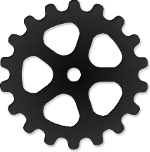
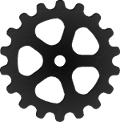
* Finished the first redesign of the escape menu

diff --git a/GREATClient/Display/ESCMenu.cs b/GREATClient/Display/ESCMenu.cs
@@ -26,6 +26,7 @@ using GREATClient.BaseClass.Menu;
 using Microsoft.Xna.Framework;
 using GREATClient.BaseClass.Input;
 using System.Diagnostics;
+using GREATClient.BaseClass.BaseAction;
 
 namespace GREATClient.Display
 {
@@ -41,23 +42,50 @@ namespace GREATClient.Display
 		public Vector2 MenuSize { get; set; }
 
 		MenuState State { get; set; }
+		// Menus
 		Menu MainMenu { get; set; }
 		Menu VideoMenu { get; set; }
 		Menu AudioMenu { get; set; }
 		Menu ExitMenu { get; set; }
+
+		//Main
 		DrawableImage MainBackground { get; set; }
 		Container MainBackgroundLayer { get; set; }
-		DrawableRectangle AudioRectangle { get; set; }
-		DrawableRectangle VideoRectangle { get; set; }
-		Container ExitLayer { get; set; }
-		Container PlacementLayer { get; set; }
-
 		// Gear
-		DrawableImage Gear { get; set; }
+		DrawableImage GearMain { get; set; }
+		DrawableImage GearMiniMain { get; set; }
+
+		//Audio
+		DrawableImage AudioBackground { get; set; }
+		Container AudioBackgroundLayer { get; set; }
+		// Gear
+		DrawableImage GearAudio { get; set; }
+
+		// Video
+		DrawableImage VideoBackground { get; set; }
+		Container VideoBackgroundLayer { get; set; }
+		// Gear
+		DrawableImage GearVideo { get; set; }
+		DrawableImage GearVideo2 { get; set; }
+
+		// Exit
+		DrawableImage ExitBackground { get; set; }
+		Container ExitLayer { get; set; }
+		// Gear 
+		DrawableImage GearExit { get; set; }
+		DrawableImage GearExit2 { get; set; }
+		DrawableImage GearExitMini { get; set; }
+
+		Container PlacementLayer { get; set; }
 
         public ESCMenu()
         {
 			State = MenuState.AllClosed;
+			PlacementLayer = new Container();			
+			MainBackgroundLayer = new Container();
+			VideoBackgroundLayer = new Container();
+			AudioBackgroundLayer = new Container();
+
 			// Main
 			MenuItem main1 = new MenuItem(new DrawableLabel() {Text = "Video settings" }, 
 							 			  new DrawableLabel() {Text = "Video settings", Tint = Color.Chocolate},
@@ -145,34 +173,74 @@ namespace GREATClient.Display
 				}
 			};
 
-			MainBackgroundLayer = new Container();
 
+			//Exit
 			ExitMenu = new Menu(exit1, exit2);
 			ExitMenu.AlignItemsHorizontally(80);
 			ExitMenu.AllowKeyboard = true;
-			ExitMenu.Position = new Vector2(130,50);
-
-			MainBackground = new DrawableImage("UIObjects/menu");
-			MenuSize = new Vector2(200,170);
-			AudioRectangle = new DrawableRectangle(new Vector2(200, 85), new Vector2(0, 0), Color.DarkGray);
-			VideoRectangle = new DrawableRectangle(new Vector2(200, 120), new Vector2(0, 0), Color.DarkGray);
-			MainBackgroundLayer.Visible = false;
-			AudioRectangle.Visible = false;
-			VideoRectangle.Visible = false;
-
+			ExitMenu.Position = new Vector2(160,95);
 			ExitLayer = new Container();
-			ExitLayer.AddChild(new DrawableRectangle(new Vector2(250, 80), new Vector2(0, 0), Color.DarkGray));
-			ExitLayer.AddChild(new DrawableLabel(){Text = "Do you really want to quit?"});
-			ExitLayer.AddChild(ExitMenu);
+			ExitBackground = new DrawableImage("UIObjects/menuExit");
 			ExitLayer.Visible = false;
+			// Exit gear
+			GearExit = new DrawableImage("UIObjects/menuGear");
+			GearExit.Scale = new Vector2(0.9f, 0.9f);
+			GearExit.RelativeOrigin = new Vector2(0.5f,0.5f);
+			GearExit.Position = new Vector2(25,130);
+			GearExit.PerformAction(new ActionSequence(-1,new ActionRotateBy(new TimeSpan(0,0,0,0,350),2,false), new ActionRotateBy(new TimeSpan(0,0,0,0,200),18,false), new ActionDelay(new TimeSpan(0,0,0,0,450))));
+			GearExit2 = new DrawableImage("UIObjects/menuGear");
+			GearExit2.Scale = new Vector2(0.8f, 0.8f);
+			GearExit2.RelativeOrigin = new Vector2(0.5f,0.5f);
+			GearExit2.Position = new Vector2(200,130);
+			GearExit2.PerformAction(new ActionSequence(-1,new ActionRotateBy(new TimeSpan(0,0,0,0,350),2,false), new ActionRotateBy(new TimeSpan(0,0,0,0,200),18,false), new ActionDelay(new TimeSpan(0,0,0,0,450))));
+			GearExitMini = new DrawableImage("UIObjects/menuGear");
+			GearExitMini.Scale = new Vector2(0.6f, 0.6f);
+			GearExitMini.RelativeOrigin = new Vector2(0.5f,0.5f);
+			GearExitMini.Position = new Vector2(115,130);
+			GearExitMini.PerformAction(new ActionSequence(-1,new ActionRotateBy(new TimeSpan(0,0,0,0,350),-2,false), new ActionRotateBy(new TimeSpan(0,0,0,0,200),-18,false), new ActionDelay(new TimeSpan(0,0,0,0,450))));
 
+
+			//Main
+			MainBackground = new DrawableImage("UIObjects/menu");
+			MainBackgroundLayer.Visible = false;
 			MainMenu.Position = new Vector2(30,25);
+			// Main gear
+			GearMain = new DrawableImage("UIObjects/menuGear");
+			GearMain.RelativeOrigin = new Vector2(0.5f,0.5f);
+			GearMain.Position = new Vector2(25,35);
+			GearMain.PerformAction(new ActionSequence(-1,new ActionRotateBy(new TimeSpan(0,0,0,0,350),2,false), new ActionRotateBy(new TimeSpan(0,0,0,0,200),18,false), new ActionDelay(new TimeSpan(0,0,0,0,450))));
+			GearMiniMain = new DrawableImage("UIObjects/menuGear");
+			GearMiniMain.Scale = new Vector2(0.5f, 0.5f);
+			GearMiniMain.RelativeOrigin = new Vector2(0.5f,0.5f);
+			GearMiniMain.Position = new Vector2(13,115);
+			GearMiniMain.PerformAction(new ActionSequence(-1,new ActionRotateBy(new TimeSpan(0,0,0,0,350),-2,false), new ActionRotateBy(new TimeSpan(0,0,0,0,200),-18,false), new ActionDelay(new TimeSpan(0,0,0,0,450))));
 
-			Gear = new DrawableImage("UIObjects/menuGear");
-			Gear.Position = new Vector2(-40,-25);
+			//Audio
+			AudioBackground = new DrawableImage("UIObjects/menuAudio");
+			AudioBackgroundLayer.Visible = false;
+			AudioMenu.Position = new Vector2(30,27);
+			// Audio gear
+			GearAudio = new DrawableImage("UIObjects/menuGear");
+			GearAudio.RelativeOrigin = new Vector2(0.5f,0.5f);
+			GearAudio.Position = new Vector2(130,35);
+			GearAudio.PerformAction(new ActionSequence(-1,new ActionRotateBy(new TimeSpan(0,0,0,0,350),2,false), new ActionRotateBy(new TimeSpan(0,0,0,0,200),18,false), new ActionDelay(new TimeSpan(0,0,0,0,450))));
 
-			PlacementLayer = new Container();
-			PlacementLayer.Position = new Vector2(-MenuSize.X / 2, -MenuSize.Y /2);
+			//Video
+			VideoBackground = new DrawableImage("UIObjects/menuVideo");
+			VideoBackgroundLayer.Visible = false;
+			VideoMenu.Position = new Vector2(30,25);
+			//Gear
+			GearVideo = new DrawableImage("UIObjects/menuGear");
+			GearVideo.Scale = new Vector2(0.6f, 0.6f);
+			GearVideo.RelativeOrigin = new Vector2(0.5f,0.5f);
+			GearVideo.Position = new Vector2(290,130);
+			GearVideo.PerformAction(new ActionSequence(-1,new ActionRotateBy(new TimeSpan(0,0,0,0,350),2,false), new ActionRotateBy(new TimeSpan(0,0,0,0,200),18,false), new ActionDelay(new TimeSpan(0,0,0,0,450))));
+			// Gear2
+			GearVideo2 = new DrawableImage("UIObjects/menuGear");
+			GearVideo2.Scale = new Vector2(0.6f, 0.6f);
+			GearVideo2.RelativeOrigin = new Vector2(0.5f,0.5f);
+			GearVideo2.Position = new Vector2(250,170);
+			GearVideo2.PerformAction(new ActionSequence(-1,new ActionRotateBy(new TimeSpan(0,0,0,0,350),-2,false), new ActionRotateBy(new TimeSpan(0,0,0,0,200),-18,false), new ActionDelay(new TimeSpan(0,0,0,0,450))));
 		}
 
 		protected override void OnLoad(ContentManager content, GraphicsDevice gd)
@@ -183,11 +251,31 @@ namespace GREATClient.Display
 			PlacementLayer.AddChild(AudioMenu,2);
 			PlacementLayer.AddChild(VideoMenu,2);
 			PlacementLayer.AddChild(MainBackgroundLayer,1);
-			PlacementLayer.AddChild(AudioRectangle,1);
-			PlacementLayer.AddChild(VideoRectangle,1);
+			PlacementLayer.AddChild(AudioBackgroundLayer,1);
+			PlacementLayer.AddChild(VideoBackgroundLayer,1);
 			PlacementLayer.AddChild(ExitLayer,1);
-			MainBackgroundLayer.AddChild(Gear,0);
+
+			VideoBackgroundLayer.AddChild(VideoBackground,1);
+			VideoBackgroundLayer.AddChild(new DrawableLabel(){Text = "*Changes will take effect after the next restart.", 
+															  Scale = new Vector2(0.6f,0.6f),
+															  Position = new Vector2(20,150)});
+
+			VideoBackgroundLayer.AddChild(GearVideo,0);
+			VideoBackgroundLayer.AddChild(GearVideo2,0);
+
+			AudioBackgroundLayer.AddChild(AudioBackground, 1);
+			AudioBackgroundLayer.AddChild(GearAudio, 0);
+
+			MainBackgroundLayer.AddChild(GearMain,0);
+			MainBackgroundLayer.AddChild(GearMiniMain,0);
 			MainBackgroundLayer.AddChild(MainBackground,1);
+
+			ExitLayer.AddChild(ExitBackground,1);
+			ExitLayer.AddChild(new DrawableLabel(){Text = "Do you really want to quit?", Position = new Vector2(30,25)});
+			ExitLayer.AddChild(ExitMenu,2);
+			ExitLayer.AddChild(GearExit,0);
+			ExitLayer.AddChild(GearExit2,0);
+			ExitLayer.AddChild(GearExitMini,0);
 
 			inputManager.RegisterEvent(InputActions.Escape, new EventHandler(OpenOrCloseMainMenu));
 
@@ -195,6 +283,17 @@ namespace GREATClient.Display
 			AudioMenu.Active(false);
 			VideoMenu.Active(false);
 			ExitMenu.Active(false);
+
+			SetMenuSize(new Vector2(MainBackground.Texture.Width,MainBackground.Texture.Height));
+		}
+
+		/// <summary>
+		/// Replaces the placement layer.
+		/// </summary>
+		void SetMenuSize(Vector2 size)
+		{			
+			MenuSize = size;
+			PlacementLayer.Position = new Vector2(-MenuSize.X / 2, -MenuSize.Y /2);
 		}
 
 		public void OpenOrCloseMainMenu(object sender, EventArgs e)
@@ -203,6 +302,7 @@ namespace GREATClient.Display
 				State = MenuState.MainOpened;
 				MainBackgroundLayer.Visible = true;
 				MainMenu.Active(true);
+				SetMenuSize(new Vector2(MainBackground.Texture.Width,MainBackground.Texture.Height));
 			} else if (State == MenuState.MainOpened) {
 				State = MenuState.AllClosed;
 				MainBackgroundLayer.Visible = false;
@@ -210,22 +310,25 @@ namespace GREATClient.Display
 				MainMenu.Active(false);
 			} else if (State == MenuState.AudioOpened) {
 				State = MenuState.MainOpened;
-				AudioRectangle.Visible = false;
+				AudioBackgroundLayer.Visible = false;
 				MainBackgroundLayer.Visible = true;
 				AudioMenu.Active(false);
 				MainMenu.Active(true);
+				SetMenuSize(new Vector2(MainBackground.Texture.Width,MainBackground.Texture.Height));
 			} else if (State == MenuState.VideoOpened) {
 				State = MenuState.MainOpened;
-				VideoRectangle.Visible = false;
+				VideoBackgroundLayer.Visible = false;
 				MainBackgroundLayer.Visible = true;
 				VideoMenu.Active(false);
 				MainMenu.Active(true);
+				SetMenuSize(new Vector2(MainBackground.Texture.Width,MainBackground.Texture.Height));
 			} else if (State == MenuState.ExitOpened) {
 				State = MenuState.MainOpened;
 				ExitLayer.Visible = false;
 				MainBackgroundLayer.Visible = true;
 				ExitMenu.Active(false);
 				MainMenu.Active(true);
+				SetMenuSize(new Vector2(MainBackground.Texture.Width,MainBackground.Texture.Height));
 			}
 		}
 
@@ -234,8 +337,9 @@ namespace GREATClient.Display
 			MainMenu.Active(false);
 			AudioMenu.Active(true);
 			State = MenuState.AudioOpened;
-			AudioRectangle.Visible = true;
+			AudioBackgroundLayer.Visible = true;
 			MainBackgroundLayer.Visible = false;
+			SetMenuSize(new Vector2(AudioBackground.Texture.Width,AudioBackground.Texture.Height));
 		}
 
 		void OpenVideo()
@@ -243,8 +347,9 @@ namespace GREATClient.Display
 			MainMenu.Active(false);
 			VideoMenu.Active(true);
 			State = MenuState.VideoOpened;
-			VideoRectangle.Visible = true;
+			VideoBackgroundLayer.Visible = true;
 			MainBackgroundLayer.Visible = false;
+			SetMenuSize(new Vector2(VideoBackground.Texture.Width,VideoBackground.Texture.Height));
 		}
 
 		void OpenExit()
@@ -254,6 +359,7 @@ namespace GREATClient.Display
 			State = MenuState.ExitOpened;
 			MainBackgroundLayer.Visible = false;
 			ExitLayer.Visible = true;
+			SetMenuSize(new Vector2(ExitBackground.Texture.Width,ExitBackground.Texture.Height));
 		}
     }
 }

diff --git a/GREATClient/GreatGame.cs b/GREATClient/GreatGame.cs
@@ -135,16 +135,18 @@ namespace GREATClient
 
 			screenInfo.SaveInfo();
 
+			graphics.IsFullScreen = screenInfo.Fullscreen;
 
-			if (screenInfo.AutoResolution) {
+			if (screenInfo.AutoResolution || graphics.IsFullScreen) {
 				graphics.PreferredBackBufferWidth = screenInfo.ScreenWidth;
 				graphics.PreferredBackBufferHeight = screenInfo.ScreenHeight;
+				screenInfo.WindowWidth = screenInfo.ScreenWidth;
+				screenInfo.WindowHeight = screenInfo.ScreenHeight;
+				screenInfo.SaveInfo();
 			} else {
 				graphics.PreferredBackBufferWidth = screenInfo.WindowWidth;
 				graphics.PreferredBackBufferHeight = screenInfo.WindowHeight;
 			}
-
-			graphics.IsFullScreen = screenInfo.Fullscreen;
 			Window.AllowUserResizing = false;
 
 			#if DEBUG
@@ -155,13 +157,6 @@ namespace GREATClient
 			#endif
 
 			graphics.ApplyChanges();
-
-			Viewport view = graphics.GraphicsDevice.Viewport;
-			view.Bounds = new Rectangle(0,
-			                            0,
-			                            graphics.PreferredBackBufferWidth,
-			                            graphics.PreferredBackBufferHeight);
-			graphics.GraphicsDevice.Viewport = view;
 		}
 	}
 }

diff --git a/GREATClient/BaseClass/BaseAction/ActionDelay.cs b/GREATClient/BaseClass/BaseAction/ActionDelay.cs
@@ -1,0 +1,38 @@
+//
+//  ActionDelay.cs
+//
+//  Author:
+//       Jean-Samuel Aubry-Guzzi <bipbip500@gmail.com>
+//
+//  Copyright (c) 2013 Jean-Samuel Aubry-Guzzi
+//
+//  This program is free software: you can redistribute it and/or modify
+//  it under the terms of the GNU General Public License as published by
+//  the Free Software Foundation, either version 3 of the License, or
+//  (at your option) any later version.
+//
+//  This program is distributed in the hope that it will be useful,
+//  but WITHOUT ANY WARRANTY; without even the implied warranty of
+//  MERCHANTABILITY or FITNESS FOR A PARTICULAR PURPOSE.  See the
+//  GNU General Public License for more details.
+//
+//  You should have received a copy of the GNU General Public License
+//  along with this program.  If not, see <http://www.gnu.org/licenses/>.
+using System;
+using System.Diagnostics;
+
+namespace GREATClient.BaseClass.BaseAction
+{
+    public class ActionDelay : ActionOverTime
+    {
+		public ActionDelay(TimeSpan duration) : base(duration)
+        {
+        }
+
+		public override void Ready()
+		{
+			Debug.Assert(Target != null);
+		}
+    }
+}
+

diff --git a/GREATClient/Test/TestScreen.cs b/GREATClient/Test/TestScreen.cs
@@ -55,7 +55,7 @@ namespace GREATClient.Test
 			AddChild(new GameUI(),10);
 
 			ESCMenu menu = new ESCMenu();
-			AddChild(menu);
+			AddChild(menu, 5);
 			menu.SetPositionInScreenPercent(50, 50);
 
 			champSprite = new DrawableChampionSprite(ChampionTypes.StickMan, ChampionsInfo) 
